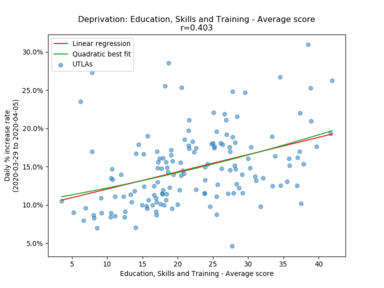
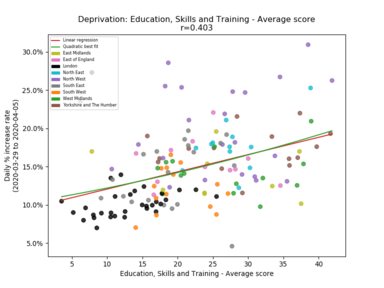
Make deprivation plots regions coloured.

diff --git a/uk/plot-deprivation.py b/uk/plot-deprivation.py
@@ -56,12 +56,14 @@ def probe(filename,column,what):
     print '  Lowest'
     for k in sorted(rate.keys(),key=lambda k: deprivation[k],reverse=False)[:10]:
         print '    {:32s}: {:.2f}'.format(codes[k],deprivation[k])
-    
+        
     y=np.array([100.0*rate[k] for k in rate.keys()])
     x=np.array([deprivation[k] for k in rate.keys()])
-    
+
+    c=[UKCovid19Data.colorsByRegion[UKCovid19Data.whichRegion(k)] for k in rate.keys()]
+
     fig=plt.figure(figsize=(8,6))
-    plt.scatter(x,y,color='tab:blue',alpha=0.5,label='UTLAs')
+    plt.scatter(x,y,color=c,alpha=0.8)
     r=scipy.stats.linregress(x,y)
     gradient,intercept,r_value,p_value,std_err=r
     
@@ -73,8 +75,6 @@ def probe(filename,column,what):
     qy=coef[2]+coef[1]*rx+coef[0]*rx**2
     plt.plot(rx,qy,color='tab:green',label='Quadratic best fit')
 
-    plt.legend(loc='upper left')
-    
     ax=plt.gca()
     vals=ax.get_yticks()
     ax.set_yticklabels(['{:,.1f}%'.format(x) for x in vals])
@@ -83,6 +83,11 @@ def probe(filename,column,what):
     plt.xlabel(what)
 
     plt.title('Deprivation: {}\nr={:.3f}'.format(what,r_value))
+
+    regionsUsed=sorted(list(set([UKCovid19Data.whichRegion(k) for k in rate.keys()])))
+    handles,labels = ax.get_legend_handles_labels()
+    handles.extend([matplotlib.patches.Patch(color=UKCovid19Data.colorsByRegion[k],label=k) for k in regionsUsed])
+    plt.legend(handles=handles,loc='upper left',prop={'size':6})
 
     distutils.dir_util.mkpath('output')
     plt.savefig('output/deprivation-{}.png'.format(filename.replace('(%)','percentage')),dpi=96)

diff --git a/uk/plot-health.py b/uk/plot-health.py
@@ -103,11 +103,9 @@ def probe(column,what,desc):
 
     correlation[desc]=r_value
 
-    handles,labels = ax.get_legend_handles_labels()
-    
     regionsUsed=sorted(list(set([UKCovid19Data.whichRegion(k) for k in rate.keys()])))
+    handles,labels = ax.get_legend_handles_labels()
     handles.extend([matplotlib.patches.Patch(color=UKCovid19Data.colorsByRegion[k],label=k) for k in regionsUsed])
-
     plt.legend(handles=handles,loc='upper left',prop={'size':6})
 
     distutils.dir_util.mkpath('output')
